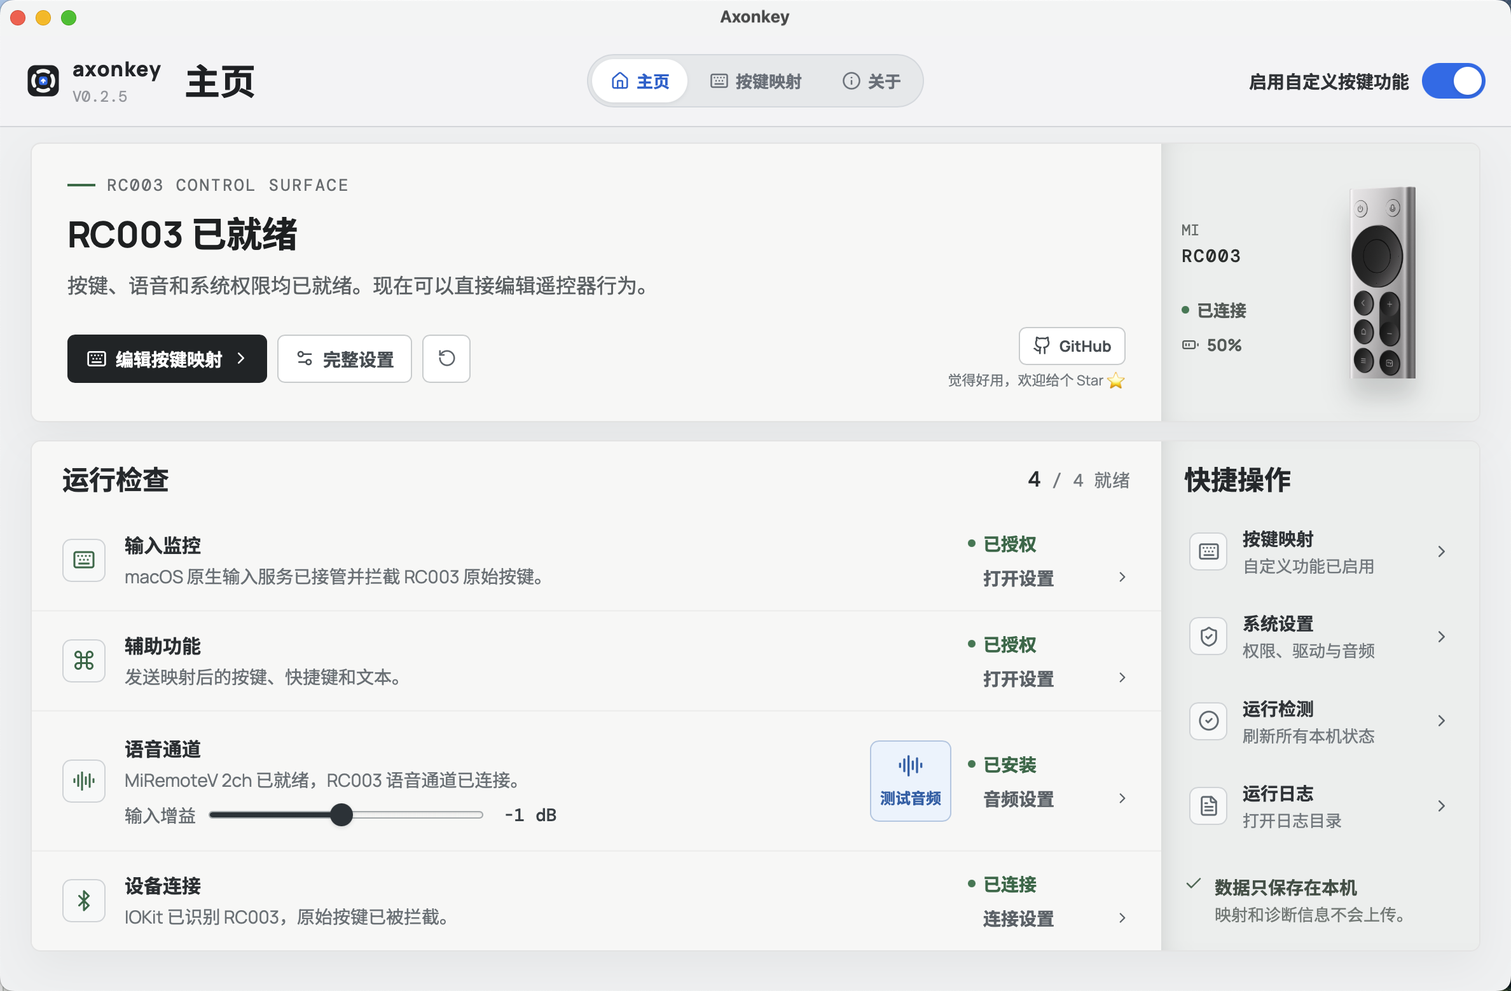
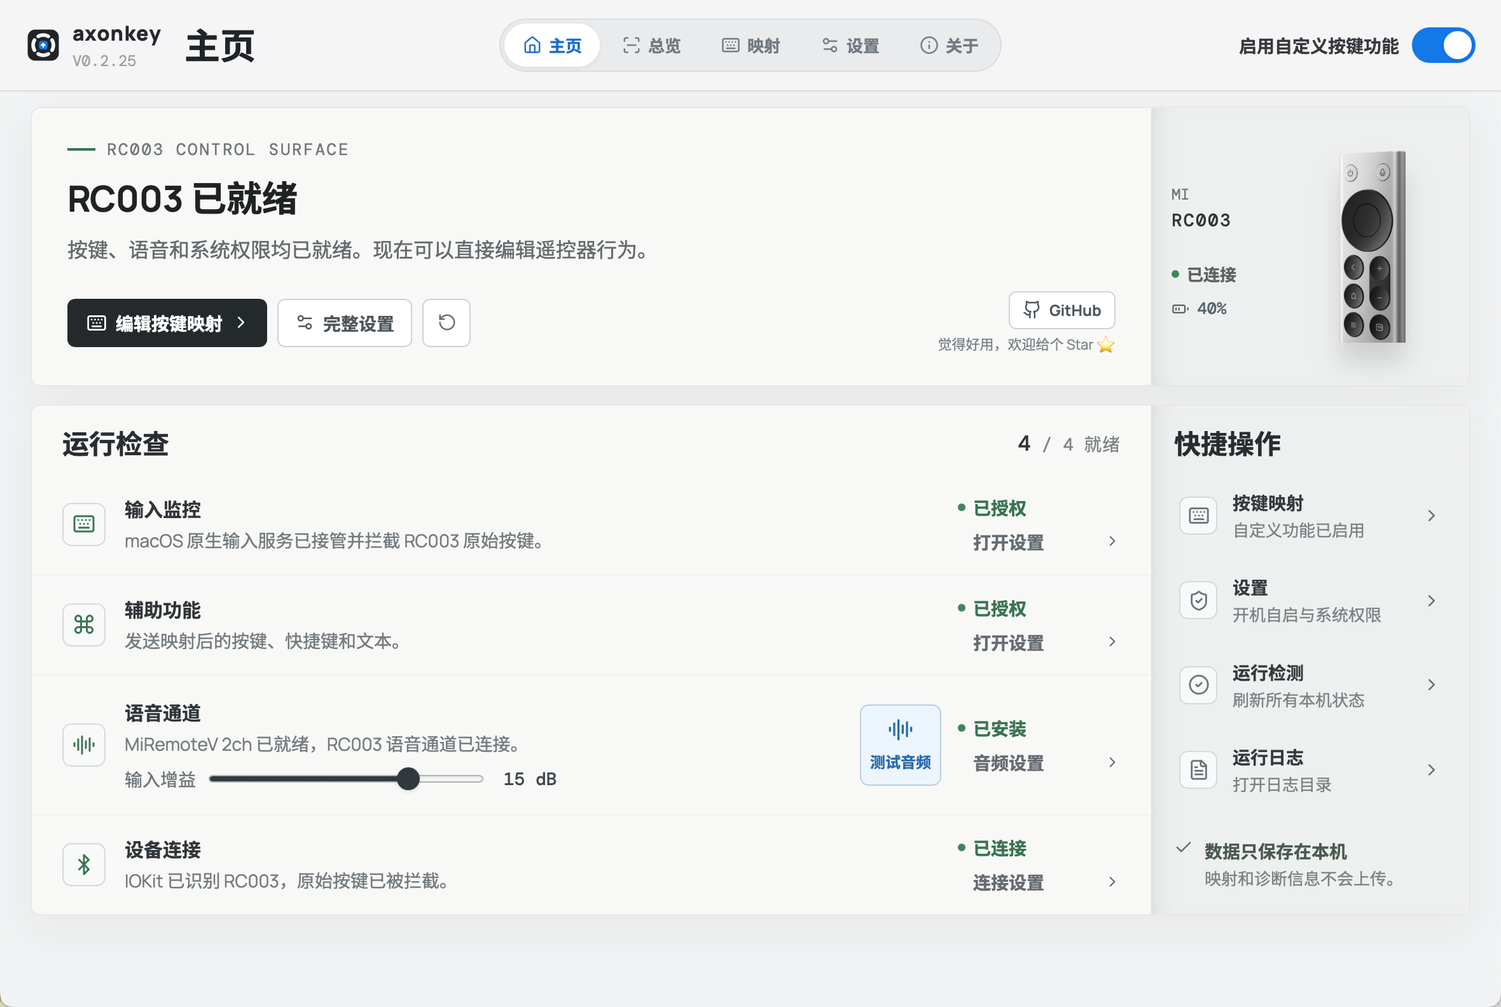
Update README screenshots and refresh interface images

diff --git a/website/style.css b/website/style.css
@@ -1,0 +1,8 @@
+@charset "UTF-8";
+:root{font-family:Inter,"Helvetica Neue",Arial,"PingFang SC","Microsoft YaHei",sans-serif;color:#202327;background:#f2f3f4;font-synthesis:none;--muted:#73777d;--blue:#1478e8;--blue-soft:#e2efff;--line:#dfe1e4;--dark:#24282b}
+*{box-sizing:border-box}html{scroll-behavior:smooth;scroll-padding-top:32px}body{margin:0}a{color:inherit;text-decoration:none}button{font:inherit}button,a,button:focus-visible,a:focus-visible,button{cursor:pointer}img{max-width:100%;display:block}::selection{background:var(--blue-soft);color:#202327}.wrap{max-width:1280px;width:calc(100% - 112px);margin-inline:auto}.header{height:110px;display:flex;align-items:center;justify-content:space-between;gap:25px}.brand{display:inline-flex;gap:10px;align-items:center;font-size:26px;font-weight:750;letter-spacing:-1.2px}.brand-symbol{width:34px;height:34px;flex-shrink:0;object-fit:contain}.brand-period{font-size:12px;align-self:flex-start;letter-spacing:0;margin-top:7px}.header nav{display:flex;gap:35px;margin-left:50px;color:#64686f;font-size:14px}.header nav a:hover,.text-link:hover{color:var(--blue)}.button{display:inline-flex;justify-content:center;align-items:center;gap:24px;min-height:56px;padding:0 26px;border:1px solid transparent;border-radius:9px;font-size:15px;font-weight:550;transition:transform .2s,background .2s}.button:hover{transform:translateY(-3px)}.button-dark{background:var(--dark);color:#fff}.button-dark:hover{background:#3b4247}.button-small{min-height:43px;padding:0 19px;gap:23px;font-size:14px}.button>span:last-child{font-size:20px}.hero{padding-top:27px;display:grid;grid-template-columns:1fr 1fr;gap:35px;align-items:center}.hero-copy{padding:18px 0 24px}.eyebrow{font-size:12px;letter-spacing:1.7px;font-weight:600;display:flex;align-items:center;gap:12px}.short-line{width:25px;height:2px;background:#25292d}h1{font-size:clamp(52px,5.6vw,78px);line-height:1.2;letter-spacing:-3px;font-weight:650;margin:35px 0 25px}.highlight{position:relative;white-space:nowrap;z-index:0}.highlight:after{content:"";position:absolute;left:0;right:0;bottom:5px;height:15px;background:var(--blue-soft);z-index:-1}.hero-description{color:var(--muted);font-size:17px;line-height:1.95;margin:0}.hero-actions{display:flex;align-items:center;gap:27px;margin-top:33px}.text-link{font-size:14px;font-weight:550;display:inline-flex;gap:19px;align-items:center;transition:color .2s}.platforms{display:flex;align-items:center;gap:15px;font-size:12px;color:#7c8086;margin-top:24px}.platform-divider{height:11px;width:1px;background:#cdd0d4}.hero-visual{height:560px;position:relative;overflow:hidden;border-radius:19px;background:radial-gradient(ellipse at 55% 35%,#fff 0%,#eef0ef 45%,#e3e6e8 100%);isolation:isolate;color:#202327}.visual-topline{position:absolute;left:29px;right:29px;top:27px;display:flex;justify-content:space-between;font-size:10px;letter-spacing:1.7px;color:#73777d}.orbit{position:absolute;width:430px;height:430px;border:1px solid #2023270a;border-radius:50%;top:64px;left:50%;transform:translateX(-50%);z-index:-1}.orbit-two{width:600px;height:600px;top:-21px}.remote-image{position:absolute;width:151px;height:auto;left:50%;top:46px;transform:translateX(-50%) rotate(17deg);filter:drop-shadow(23px 30px 19px #0008)}.floating-label{position:absolute;display:flex;align-items:center;gap:11px;padding:14px 17px;background:#ffffffed;color:#202327;box-shadow:0 10px 40px #0002;border:1px solid #fff5;border-radius:11px}.floating-label small{display:block;font-size:11px;color:#73777d;margin-bottom:4px}.floating-label strong{font-size:12px;font-weight:550;white-space:nowrap}.shortcut-label{top:174px;left:24px;transform:rotate(-5deg)}.label-icon{display:grid;place-items:center;width:34px;height:36px;border-radius:7px;background:var(--blue-soft);font-size:25px}.voice-label{right:23px;bottom:135px;transform:rotate(4deg)}.wave{display:flex;gap:3px;align-items:center;height:28px;padding:0 4px}.wave i{height:12px;width:3px;background:var(--blue);border-radius:2px}.wave i:nth-child(2),.wave i:nth-child(4){height:22px}.wave i:nth-child(3){height:30px}.visual-bottom{position:absolute;bottom:26px;left:29px;right:29px;display:flex;justify-content:space-between;align-items:end}.visual-caption{font-size:10px;letter-spacing:1.3px;line-height:1.7;color:#73777d}.visual-plus{font-size:36px;color:var(--blue);font-weight:300}.principles{display:flex;justify-content:space-between;align-items:center;gap:24px;border-bottom:1px solid var(--line);padding-block:36px;margin-top:14px}.principles p{font-size:15px;font-weight:550}.principles p span{font-weight:400;color:#8a8e94;margin-left:14px}.principles>div{display:flex;gap:35px;font-size:13px;color:#686d73}.section{padding-top:95px}.section-heading{display:flex;justify-content:space-between;align-items:end;margin-bottom:35px}.section-heading .eyebrow,.experience .eyebrow{color:#83888e;font-size:11px}h2{font-size:37px;letter-spacing:-1.3px;line-height:1.35;font-weight:600;margin:15px 0 0}.section-heading>p{font-size:15px;line-height:1.8;color:var(--muted);margin:0 0 3px}.feature-grid{display:grid;grid-template-columns:repeat(3,1fr);gap:18px}.feature-card{padding:25px 26px 28px;border:1px solid var(--line);border-radius:14px;background:#fff;overflow:hidden}.card-top{display:flex;justify-content:space-between;align-items:center;color:#777d82}.feature-index{font-size:12px;letter-spacing:.7px}.card-top>span:last-child{font-size:18px;color:#979da3}.feature-card h3{font-size:20px;letter-spacing:-.5px;font-weight:600;margin:7px 0 13px}.feature-card p{font-size:14px;line-height:1.9;color:var(--muted);margin:0}.key-demo,.audio-demo,.sequence-demo{height:155px;display:flex;align-items:center;justify-content:center;gap:9px}.key-demo kbd{display:grid;place-items:center;font-family:inherit;width:53px;height:55px;font-size:26px;border:1px solid #d9dde1;border-bottom:4px solid #d0d4d9;border-radius:10px;background:linear-gradient(#fff,#f4f5f7);box-shadow:0 6px 9px #00000008;transform:rotate(-7deg)}.key-demo kbd:nth-child(2){transform:translateY(-7px) rotate(-7deg)}.key-demo kbd:nth-child(3){background:var(--blue-soft);border-color:#83b8f8;color:#176fcf;transform:translateY(-14px) rotate(-7deg)}.key-plus{align-self:center;margin:0 0 32px 8px;color:#90969b;font-size:22px}.voice-card{background:#f7f7f8;border-color:var(--line)}.audio-demo{gap:5px}.audio-demo span{width:4px;height:17px;border-radius:4px;background:#83b8f8}.audio-demo span:nth-child(3n){height:40px}.audio-demo span:nth-child(4n){height:64px;background:var(--blue)}.audio-demo span:nth-child(5n){height:80px;background:var(--blue)}.audio-demo span:nth-child(7n){height:28px}.sequence-demo{gap:8px}.sequence-demo span{font-size:12px;padding:12px 10px;border:1px solid #dfe2e6;background:#f8f9fa;border-radius:7px;white-space:nowrap}.sequence-demo span:last-child{font-size:20px;padding:7px 12px}.sequence-demo b{font-weight:400;color:#9ba0a7}.experience{display:grid;grid-template-columns:.72fr 1.28fr;gap:55px;align-items:center;padding-bottom:80px}.experience h2{margin-top:21px;line-height:1.45}.experience-copy>p{font-size:15px;line-height:1.9;color:var(--muted);margin:23px 0}.preview-switch{display:flex;gap:5px;padding:5px;border:1px solid #dfe1e5;border-radius:9px;width:max-content;background:#eceef0}.preview-switch button{border:0;border-radius:6px;background:transparent;padding:10px 17px;font-size:13px;color:#747b84;transition:background .2s,color .2s}.preview-switch button[aria-pressed="true"]{background:#fff;color:#176fcf;box-shadow:0 2px 6px #00000009}.experience-copy>.preview-caption{font-size:12px;margin:13px 0 28px}.app-preview{background:#e9ecef;border:1px solid #d5d9de;border-radius:12px;box-shadow:0 24px 50px -22px #33405538;overflow:hidden;transform:perspective(1600px) rotateY(-3deg)}.window-chrome{height:34px;display:flex;align-items:center;gap:6px;padding:0 13px;border-bottom:1px solid #d5d9de;position:relative}.window-chrome>span{width:8px;height:8px;background:#bcc2c9;border-radius:50%}.window-chrome>span:first-child{background:#edaaa2}.window-chrome>span:nth-child(2){background:#e4ca8a}.window-chrome>span:nth-child(3){background:#a3c9a0}.window-chrome p{position:absolute;left:50%;transform:translateX(-50%);font-size:10px;color:#808790}.app-preview img{width:100%;height:auto;aspect-ratio:1.6;object-fit:contain;background:#f4f6f8}.local-section{border-block:1px solid var(--line);padding-block:32px;display:flex;gap:25px;align-items:center}.local-mark{height:49px;width:49px;flex-shrink:0;border:1px solid #b8cee4;border-radius:50%;display:grid;place-items:center;font-size:35px;background:var(--blue-soft);color:#286cae}.local-section h2{margin:0;font-size:20px;letter-spacing:-.5px}.local-section p{color:var(--muted);font-size:14px;line-height:1.8;margin:9px 0 0}.local-section>.text-link{margin-left:auto;white-space:nowrap}.footer{display:flex;align-items:center;justify-content:space-between;padding-block:40px;gap:20px}.footer .brand{font-size:22px}.footer>span{font-size:12px;color:#858b92}.footer>a:last-child{font-size:13px;color:#6d747c}.skip-link{position:fixed;top:-80px;left:20px;padding:14px 22px;background:var(--blue);color:#fff;z-index:10}.skip-link:focus{top:15px}
+@media(min-width:1450px){.hero-visual{height:600px}.remote-image{width:162px;top:46px}.hero-copy{padding-bottom:38px}.hero h1{font-size:82px}}
+@media(max-width:1100px){.wrap{width:calc(100% - 64px)}.hero{gap:22px}.hero-visual{height:520px}.hero h1{font-size:61px}.hero-actions{gap:18px}.hero-actions .button{padding-inline:20px}.hero-actions .text-link{gap:9px;font-size:13px}.remote-image{width:143px;top:43px}.shortcut-label{left:12px;top:166px;padding:11px 12px}.voice-label{right:12px;bottom:120px;padding:11px 12px}.floating-label strong{font-size:11px}.principles>div{gap:20px}.feature-card{padding:23px 20px}.feature-card p br{display:none}.feature-card h3{font-size:18px}.experience{gap:32px}.sequence-demo{gap:5px}.sequence-demo span{padding-inline:7px}}
+@media(max-width:800px){.wrap{width:calc(100% - 40px)}.header{height:85px}.header nav{margin:0;gap:20px}.header nav>a:nth-child(2){display:none}.header .brand{font-size:23px}.hero{grid-template-columns:1fr 1fr;gap:18px;padding-top:20px}.hero h1{font-size:48px;letter-spacing:-2px}.hero .eyebrow{font-size:9px;letter-spacing:1px;gap:7px}.hero-description{font-size:14px}.hero-actions{flex-direction:column;align-items:flex-start;gap:20px}.hero-visual{height:486px}.remote-image{width:127px;top:58px}.visual-topline{font-size:8px;left:20px;right:20px}.shortcut-label{top:168px;left:5px;padding:9px;gap:7px}.floating-label small{font-size:9px}.floating-label strong{font-size:10px}.label-icon{width:27px;height:30px;font-size:21px}.voice-label{right:7px;bottom:113px;padding:9px;gap:6px}.platforms{gap:9px;font-size:10px}.principles{align-items:flex-start;flex-direction:column;gap:9px;padding-block:25px}.principles p{margin:0}.principles>div{font-size:12px}.section{padding-top:65px}.section-heading{gap:25px}h2{font-size:30px}.section-heading>p{font-size:13px}.feature-grid{gap:12px}.feature-card{padding:20px 16px}.feature-card h3{font-size:17px;line-height:1.5}.feature-card p{font-size:13px}.feature-index{font-size:10px}.key-demo kbd{width:39px;height:46px;font-size:23px}.key-demo{gap:5px}.key-plus{display:none}.sequence-demo{gap:3px;flex-wrap:wrap;align-content:center}.sequence-demo span{font-size:10px;padding:9px 5px}.audio-demo{gap:4px}.audio-demo span{width:3px}.experience{grid-template-columns:1fr;gap:30px;padding-bottom:50px}.experience-copy{max-width:100%}.experience h2 br{display:none}.experience-copy>p br{display:none}.experience-copy>p{margin:16px 0}.experience-copy>.preview-caption{margin:12px 0 18px}.app-preview{transform:none}.local-section{gap:15px;flex-wrap:wrap}.local-section>div:nth-child(2){flex:1}.local-section>.text-link{margin-left:64px}.local-section h2{font-size:18px}}
+@media(max-width:560px){.header nav{display:none}.header{gap:14px}.header .button-small{font-size:12px;padding-inline:13px;gap:12px}.hero{grid-template-columns:1fr;padding-top:16px;gap:27px}.hero-copy{padding:10px 0 0}.hero .eyebrow{font-size:10px;letter-spacing:1.5px}.hero h1{font-size:clamp(48px,12vw,64px);margin:27px 0 22px;line-height:1.22}.highlight:after{height:12px;bottom:4px}.hero-description{font-size:16px}.desktop-break{display:none}.hero-actions{flex-direction:row;align-items:center;gap:20px;margin-top:26px}.hero-actions .text-link{font-size:13px}.platforms{font-size:11px;margin-top:21px;gap:12px}.hero-visual{height:450px}.remote-image{width:126px;top:36px}.visual-topline{font-size:9px}.shortcut-label{top:150px;left:16px;padding:12px;gap:9px}.floating-label strong{font-size:11px}.floating-label small{font-size:10px}.voice-label{right:18px;bottom:105px;padding:12px}.visual-bottom{left:23px;right:23px;bottom:20px}.principles{margin-top:10px;padding-block:25px;gap:15px}.principles p{font-size:13px}.principles p span{margin-left:8px}.principles>div{gap:26px}.section-heading{display:block;margin-bottom:25px}.section-heading>p{margin-top:17px}.section-heading>p br{display:none}.section .eyebrow{font-size:10px}h2{font-size:29px}.feature-grid{grid-template-columns:1fr;gap:15px}.feature-card{padding:24px 26px}.feature-index{font-size:12px}.feature-card h3{font-size:21px}.feature-card p{font-size:14px}.key-demo,.audio-demo,.sequence-demo{height:135px}.key-demo kbd{width:55px;height:58px;font-size:27px}.key-demo{gap:10px}.sequence-demo{gap:9px}.sequence-demo span{font-size:13px;padding:12px 16px}.sequence-demo span:last-child{padding:9px 16px}.audio-demo{gap:6px}.audio-demo span{width:4px}.experience h2 br{display:block}.experience-copy>p{font-size:14px;line-height:1.9}.app-preview{margin-inline:-6px}.local-section h2{font-size:17px;line-height:1.5}.local-section p{font-size:13px}.footer{flex-wrap:wrap;padding-block:30px}.footer>span{order:3;width:100%}.footer>a:last-child{margin-left:auto}}
+@media(prefers-reduced-motion:reduce){html{scroll-behavior:auto}*,*:before,*:after{transition:none!important;animation:none!important}}

diff --git a/website/index.html b/website/index.html
@@ -1,0 +1,62 @@
+<!doctype html>
+<html lang="zh-CN">
+  <head>
+    <meta charset="UTF-8" />
+    <meta name="viewport" content="width=device-width, initial-scale=1.0" />
+    <meta name="theme-color" content="#f2f3f4" />
+    <meta name="description" content="Axonkey，让小米 RC003 蓝牙遥控器成为你的电脑快捷控制器。自定义按键、组合动作与语音输入，支持 macOS 和 Windows，本地运行。" />
+    <title>Axonkey — 把掌控，握在手里。</title>
+    <link rel="icon" type="image/svg+xml" href="./assets/app-icon.svg" />
+    <link rel="stylesheet" href="./style.css" />
+    <script type="module" src="./main.js"></script>
+  </head>
+  <body>
+    <a class="skip-link" href="#main">跳到主要内容</a>
+    <header class="header wrap">
+      <a class="brand" href="#" aria-label="Axonkey 首页"><img class="brand-symbol" src="./assets/app-icon.svg" alt="" width="34" height="34" />axonkey<span class="brand-period">®</span></a>
+      <nav aria-label="主导航"><a href="#features">功能</a><a href="#experience">使用体验</a><a href="https://github.com/leowzz/axonkey" target="_blank" rel="noopener noreferrer">GitHub <span aria-hidden="true">↗</span></a></nav>
+      <a class="button button-small button-dark" href="https://github.com/leowzz/axonkey/releases/latest" target="_blank" rel="noopener noreferrer">下载 Axonkey <span aria-hidden="true">↗</span></a>
+    </header>
+
+    <main id="main">
+      <section class="hero wrap" aria-labelledby="hero-title">
+        <div class="hero-copy">
+          <span class="eyebrow"><span class="short-line"></span> YOUR REMOTE. REIMAGINED.</span>
+          <h1 id="hero-title">把掌控，<br />握在<span class="highlight">手里。</span></h1>
+          <p class="hero-description">一只遥控器，更多可能。<br />用 Axonkey，把小米 RC003 变成你的<br class="desktop-break" />快捷键控制器与随手可用的麦克风。</p>
+          <div class="hero-actions"><a class="button button-dark" href="https://github.com/leowzz/axonkey/releases/latest" target="_blank" rel="noopener noreferrer">下载 Axonkey <span aria-hidden="true">↗</span></a><a class="text-link" href="#experience">看看它如何工作 <span aria-hidden="true">↓</span></a></div>
+          <div class="platforms"><span>macOS 13+</span><span class="platform-divider"></span><span>Windows 11</span><span class="platform-divider"></span><span>本地运行</span></div>
+        </div>
+        <div class="hero-visual" aria-label="小米 RC003 遥控器与 Axonkey 功能展示">
+          <div class="visual-topline"><span>DESIGNED FOR RC003</span><span>01 / 03</span></div>
+          <div class="orbit orbit-one"></div><div class="orbit orbit-two"></div>
+          <img class="remote-image" src="./assets/rc003-remote-cutout.png" alt="银色小米 RC003 蓝牙遥控器" width="289" height="838" fetchpriority="high" />
+          <div class="floating-label shortcut-label"><span class="label-icon" aria-hidden="true">⌘</span><span><small>一个按键</small><strong>你的专属快捷方式</strong></span></div>
+          <div class="floating-label voice-label"><span class="wave" aria-hidden="true"><i></i><i></i><i></i><i></i><i></i></span><span><small>按住语音键</small><strong>让想法，自然说出来</strong></span></div>
+          <div class="visual-bottom"><span class="visual-caption">SMALL DEVICE.<br />BIG POSSIBILITIES.</span><span class="visual-plus" aria-hidden="true">+</span></div>
+        </div>
+      </section>
+
+      <div class="principles wrap"><p>小小遥控器。<span>刚刚好的控制力。</span></p><div><span>自定义按键</span><span>语音输入</span><span>跨平台支持</span></div></div>
+
+      <section class="features wrap section" id="features" aria-labelledby="features-title">
+        <div class="section-heading"><div><span class="eyebrow">LESS REACHING. MORE DOING.</span><h2 id="features-title">顺手，才是好工具。</h2></div><p>把重复的操作交给按键，<br />把注意力留给正在做的事。</p></div>
+        <div class="feature-grid">
+          <article class="feature-card mapping-card"><div class="card-top"><span class="feature-index">01 / 按键映射</span><span aria-hidden="true">↗</span></div><div class="key-demo" aria-hidden="true"><kbd>⌘</kbd><kbd>⇧</kbd><kbd>K</kbd><span class="key-plus">+</span></div><h3>你的按键，你来定义。</h3><p>单击、双击、长按，分别设置专属行为。<br />从常用快捷键到媒体控制，按你的习惯来。</p></article>
+          <article class="feature-card voice-card"><div class="card-top"><span class="feature-index">02 / 语音转发</span><span aria-hidden="true">↗</span></div><div class="audio-demo" aria-hidden="true"><span></span><span></span><span></span><span></span><span></span><span></span><span></span><span></span><span></span><span></span><span></span><span></span><span></span><span></span><span></span><span></span><span></span><span></span><span></span></div><h3>想说的，按住就说。</h3><p>将遥控器变成电脑麦克风。安装虚拟音频驱动后，在语音应用中选择对应输入即可使用。</p></article>
+          <article class="feature-card sequence-card"><div class="card-top"><span class="feature-index">03 / 组合动作</span><span aria-hidden="true">↗</span></div><div class="sequence-demo" aria-hidden="true"><span>粘贴文本</span><b>→</b><span>等待</span><b>→</b><span>↵</span></div><h3>多个步骤，一键完成。</h3><p>把文本、等待与按键串成一个动作。<br />修改自动保存，下次按下即刻生效。</p></article>
+        </div>
+      </section>
+
+      <section class="experience wrap section" id="experience" aria-labelledby="experience-title">
+        <div class="experience-copy"><span class="eyebrow">MADE TO FEEL SIMPLE.</span><h2 id="experience-title">能力很丰富。<br />设置很直觉。</h2><p>选一个按键，设一种行为。<br />设备状态、按键映射、语音通道，<br />都在一个清晰的本地控制台里。</p><div class="preview-switch" role="group" aria-label="界面预览"><button type="button" data-preview="mapping" aria-pressed="true">按键映射</button><button type="button" data-preview="overview" aria-pressed="false">按键总览</button><button type="button" data-preview="home" aria-pressed="false">主页</button></div><p class="preview-caption" id="preview-caption" aria-live="polite">单击、双击与长按，各有自己的用途。</p><a class="text-link" href="https://github.com/leowzz/axonkey#macos-首次使用" target="_blank" rel="noopener noreferrer">阅读使用指南 <span aria-hidden="true">↗</span></a></div>
+        <div class="app-preview"><div class="window-chrome" aria-hidden="true"><span></span><span></span><span></span><p>Axonkey</p></div><img id="app-screenshot" src="../docs/images/axonkey-mapping.png" alt="Axonkey 按键映射界面，可选择实体按键并编辑触发行为" width="1920" height="1200" loading="lazy" /></div>
+      </section>
+
+      <section class="local-section wrap"><div class="local-mark" aria-hidden="true">⌁</div><div><h2>你的控制，留在你的电脑。</h2><p>无需账号，没有云端同步或遥测。配置与诊断数据保存在本机。</p></div><a class="text-link" href="https://github.com/leowzz/axonkey" target="_blank" rel="noopener noreferrer">查看源代码 <span aria-hidden="true">↗</span></a></section>
+
+    </main>
+
+    <footer class="footer wrap"><a class="brand" href="#" aria-label="回到首页"><img class="brand-symbol" src="./assets/app-icon.svg" alt="" width="34" height="34" />axonkey</a><span>少一点操作，多一点专注。</span><a href="https://github.com/leowzz/axonkey" target="_blank" rel="noopener noreferrer">GitHub ↗</a></footer>
+  </body>
+</html>

diff --git a/website/main.js b/website/main.js
@@ -1,0 +1,33 @@
+const previews = {
+  home: {
+    source: new URL('../docs/images/axonkey-home.png', import.meta.url).href,
+    alt: 'Axonkey 主页，展示设备状态、系统权限、语音通道和快捷操作',
+    caption: '设备、权限与语音状态，打开就能看清。',
+  },
+  mapping: {
+    source: new URL('../docs/images/axonkey-mapping.png', import.meta.url).href,
+    alt: 'Axonkey 按键映射界面，可选择实体按键并编辑触发行为',
+    caption: '单击、双击与长按，各有自己的用途。',
+  },
+  overview: {
+    source: new URL('../docs/images/axonkey-overview.png', import.meta.url).href,
+    alt: 'Axonkey 总览，展示遥控器各按键的映射行为与触发方式',
+    caption: '每个按键对应什么动作，一眼看清。',
+  },
+};
+
+const screenshot = document.querySelector('#app-screenshot');
+const caption = document.querySelector('#preview-caption');
+const previewButtons = document.querySelectorAll('[data-preview]');
+
+previewButtons.forEach((button) => {
+  button.addEventListener('click', () => {
+    const preview = previews[button.dataset.preview];
+    screenshot.src = preview.source;
+    screenshot.alt = preview.alt;
+    caption.textContent = preview.caption;
+    previewButtons.forEach((item) => {
+      item.setAttribute('aria-pressed', String(item === button));
+    });
+  });
+});

diff --git a/website/README.md b/website/README.md
@@ -1,0 +1,27 @@
+# Axonkey 官网
+
+独立的中文产品官网，使用原生 HTML、CSS、JavaScript 与 Vite。网站源码位于此目录，应用截图与根目录 README 共用 `../docs/images/axonkey-home.png`、`../docs/images/axonkey-overview.png` 和 `../docs/images/axonkey-mapping.png`，只维护一份源文件。Vite 构建时自动打包这些共享图片。其他图片来自项目已有产品素材。
+
+## 本地预览
+
+项目根目录已安装依赖时可直接运行：
+
+```sh
+cd website
+npm run dev
+```
+
+访问 http://127.0.0.1:4175 。也可以在本目录单独执行 `npm install` 后运行。
+
+## 构建
+
+```sh
+npm run build
+npm run preview
+```
+
+`dist/` 可部署至任意静态网站服务。使用相对资源路径，支持子路径部署。
+
+页面包括产品介绍、三项核心功能、可切换的真实应用截图、本地数据说明和下载入口。下载按钮前往官方 GitHub 最新发行页，由用户选择对应平台安装包，不硬编码版本和下载地址。
+
+功能和系统要求依据项目 README；更新支持范围时应同步网站文案。此目录仅完成本地网站，没有发布到外部服务。
